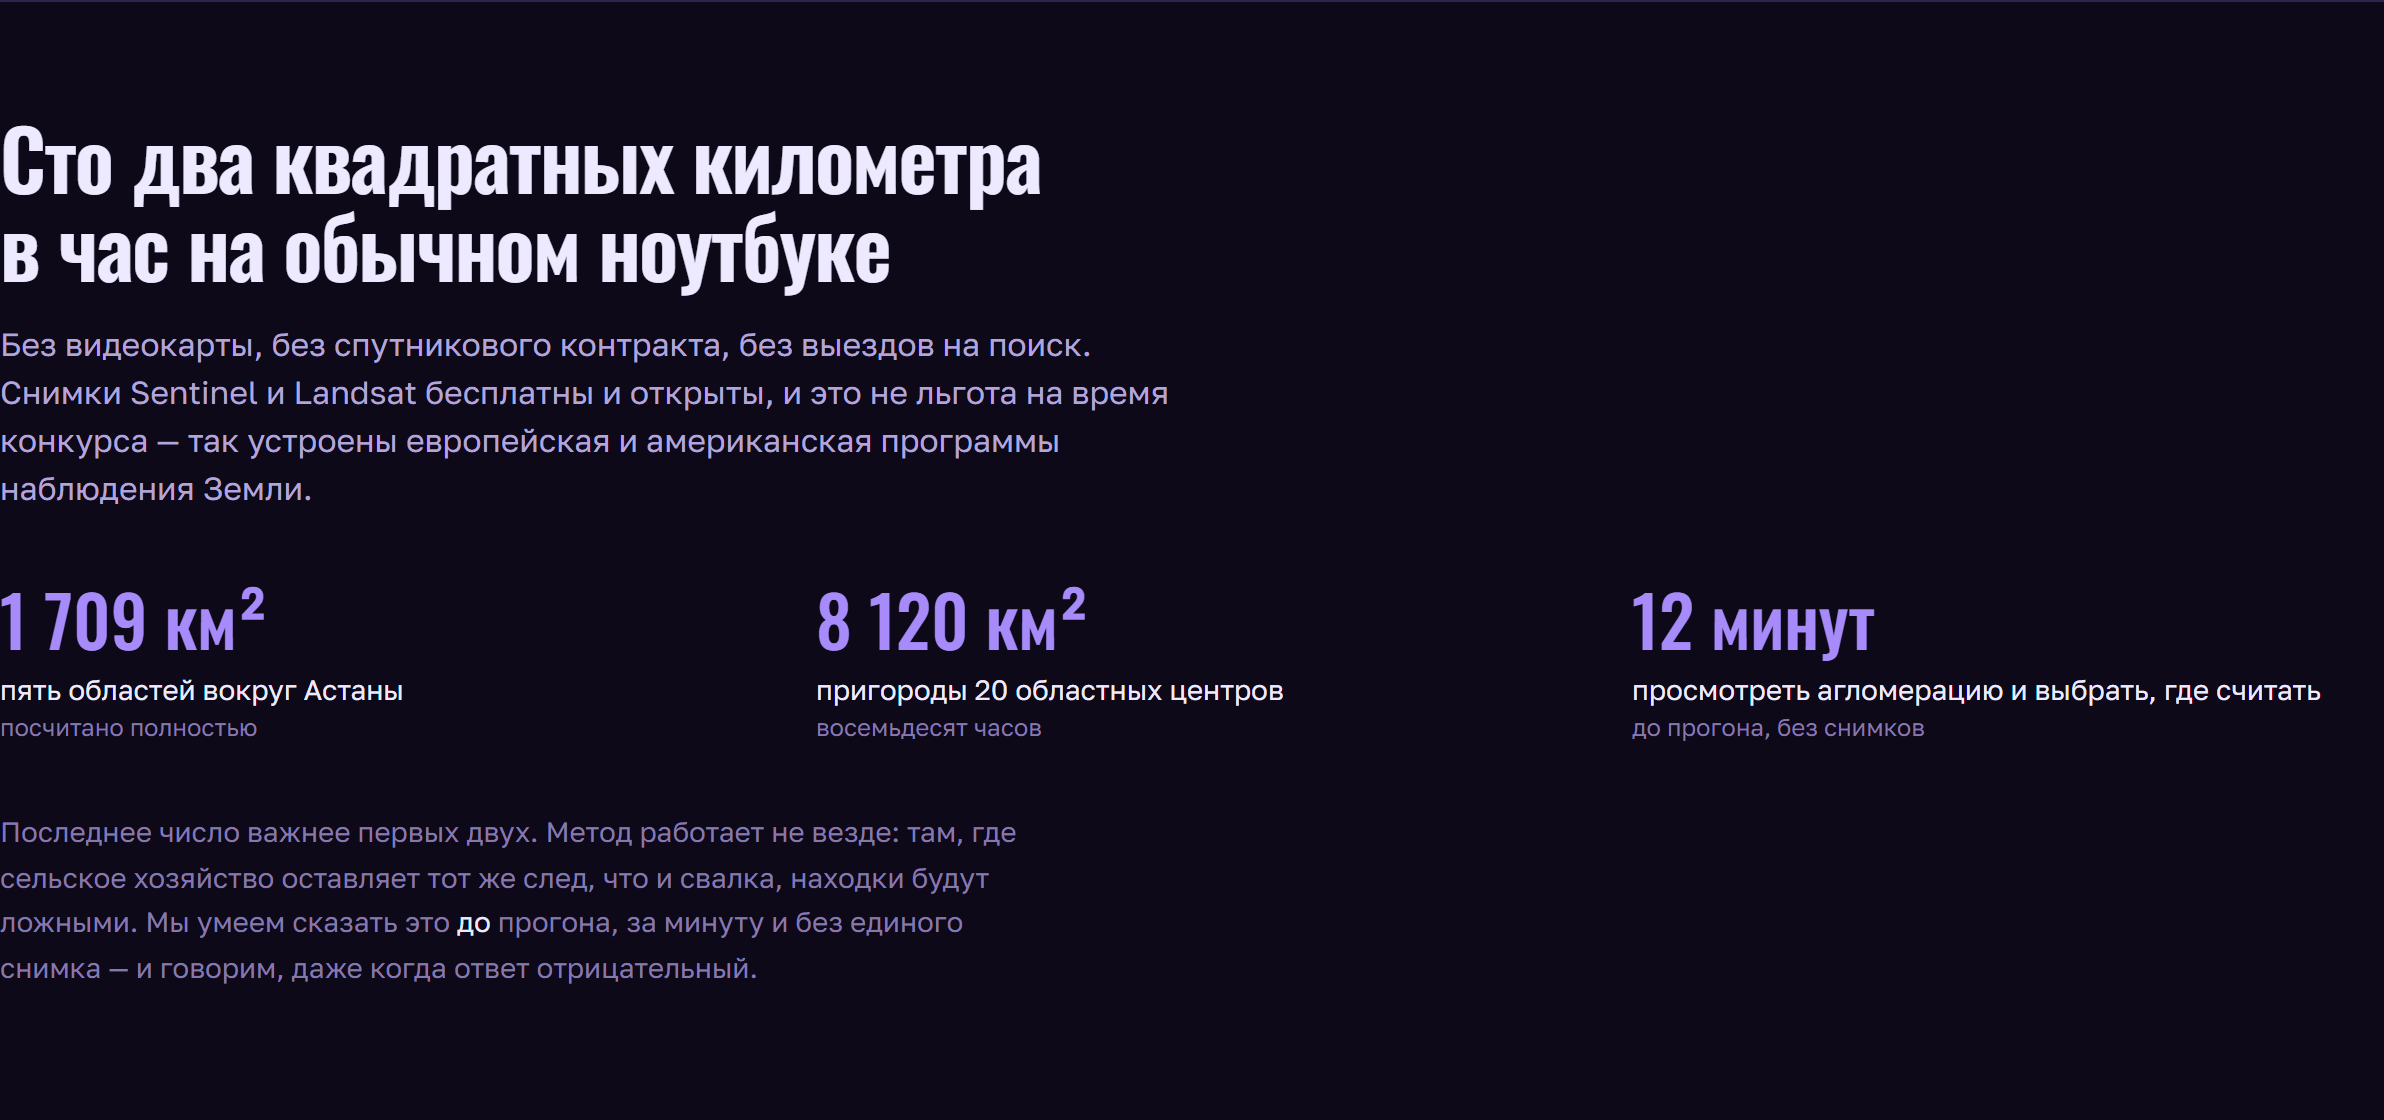
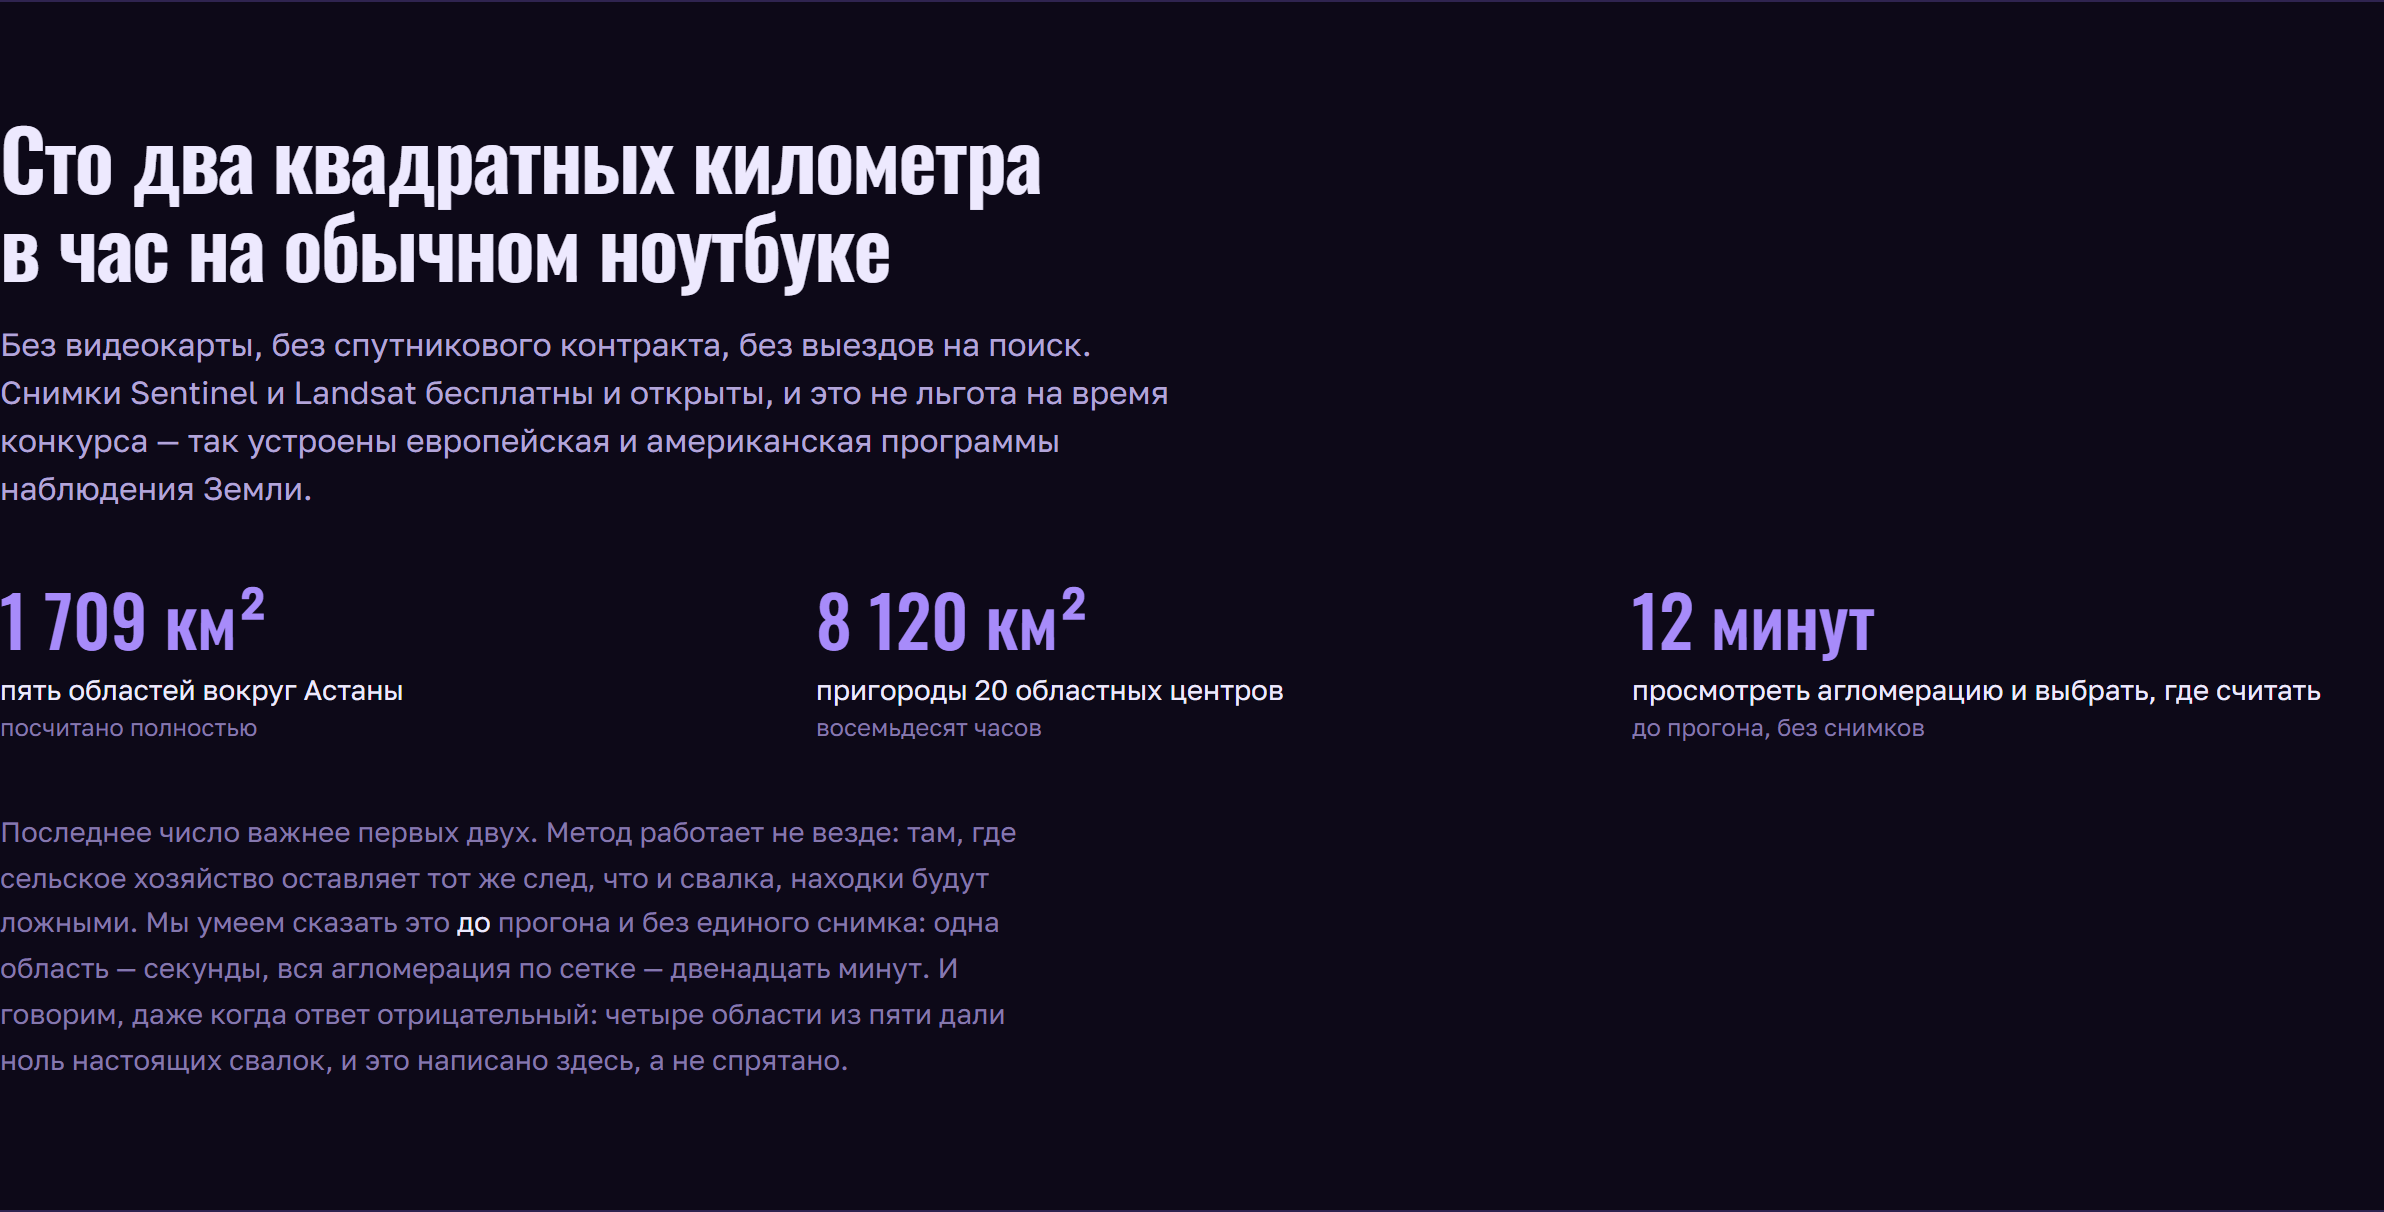
Заголовок обещал «Шесть лет», а число под ним показывало 4,4
- Ограничения на лендинге отстали от измерений
- «в 64 раз точнее» — склонение на слайде с метрикой

Changed region(s): [[0.0, 0.0938, 0.5277, 0.9062], [0.6829, 0.4688, 0.9622, 0.6562]]

diff --git a/web-next/src/App.tsx b/web-next/src/App.tsx
@@ -113,11 +113,11 @@ const LIMITS: [string, string][] = [
   ],
   [
     'В сельской местности метод не работает',
-    'Детектор ищет место, где растительность исчезла навсегда. В промзоне это редкое событие и потому значимое; в поле — рядовое: залежь, смена оборота, заброшенный огород. Проверено трижды: Алматы 8 находок, восточный пояс Астаны 33, юго-восточный 63 — настоящих свалок ноль. Проверять область научились до прогона: там, где карта подробна, отсев работает, где пуста — нет. Разрыв между работающей областью и провальной оказался четырнадцатикратным.',
+    'Детектор ищет место, где растительность исчезла навсегда. В промзоне это редкое событие и потому значимое; в поле — рядовое: залежь, смена оборота, заброшенный огород. Проверено на пяти областях: восточный пояс Астаны 33 находки, юго-восточный 63, западная промзона 42, юг 21 — настоящих свалок ноль, все просмотрены глазами. Проверять область научились до прогона по полноте карты: где карта пуста, отсеивать нечем и метод не работает наверняка. Обратное неверно: подробная карта не обещает свалок, она обещает работающий отсев.',
   ],
   [
-    'Перенос классификатора на Казахстан не доказан',
-    'Модель обучена на открытых датасетах — ROC-AUC 0,858 на них. На наших объектах 0,643 при интервале 0,333–0,923: нижняя граница ниже случайного. Виновата не модель, а число подтверждённых объектов.',
+    'Перенос классификатора измерен, но выборка мала',
+    'Модель обучена на открытых датасетах — ROC-AUC 0,858 на них. На наших объектах 0,680 при интервале 0,517–0,841. Пока объектов было семнадцать, нижняя граница лежала на 0,333 — ниже случайного, и перенос назывался недоказанным; на 51 она перешла черту. Называем нижнюю границу, а не середину.',
   ],
   [
     'Это оценка, а не юридическое доказательство',
@@ -551,9 +551,11 @@ export default function App() {
           <p className="mt-8 max-w-[60ch] text-sm leading-relaxed text-muted-2">
             Последнее число важнее первых двух. Метод работает не везде: там,
             где сельское хозяйство оставляет тот же след, что и свалка,
-            находки будут ложными. Мы умеем сказать это <strong className="font-normal text-line">до</strong> прогона,
-            за минуту и без единого снимка — и говорим, даже когда ответ
-            отрицательный.
+            находки будут ложными. Мы умеем сказать это <strong className="font-normal text-line">до</strong> прогона
+            и без единого снимка: одна область — секунды, вся агломерация по
+            сетке — двенадцать минут. И говорим, даже когда ответ
+            отрицательный: четыре области из пяти дали ноль настоящих свалок,
+            и это написано здесь, а не спрятано.
           </p>
         </section>
 

diff --git a/web-next/src/components/HowLong.tsx b/web-next/src/components/HowLong.tsx
@@ -57,10 +57,18 @@ export function HowLong({ features }: { features: Feature[] }) {
     ['тонн отходов в списке', Math.round(mass).toLocaleString('ru-RU')],
   ];
 
+  /* Заголовок берёт то же число, что и плитка под ним.
+     Раньше в нём стояло «Шесть лет» словами, а плитка считалась из данных.
+     После пересчёта они разошлись: заголовок обещал шесть, число под ним
+     показывало 4,4. Читатель видит оба одновременно, и это разрушает
+     доверие ко всей странице быстрее, чем любая неточность по отдельности. */
+  const typical = Math.round(median(ages));
+  const said = typical === 1 ? 'Год' : typical < 5 ? `${typical} года` : `${typical} лет`;
+
   return (
     <section className="mt-14 border-t border-grid pt-12">
       <h2 className="max-w-[24ch] text-[clamp(1.6rem,3.4vw,2.4rem)] text-line">
-        Шесть лет — столько объект лежит, пока его никто не считает
+        {said} — столько объект лежит, пока его никто не считает
       </h2>
 
       <dl className="mt-8 grid gap-8 sm:grid-cols-3">
@@ -84,7 +92,7 @@ export function HowLong({ features }: { features: Feature[] }) {
       <p className="mt-4 max-w-[62ch] leading-relaxed text-muted">
         Спутник заметил эти объекты через годы после появления — раньше было
         физически нечего увидеть. Человек, проходящий мимо, замечает в первую
-        неделю. Одна точка из телефона сокращает шесть лет до семи дней.
+        неделю. Одна точка из телефона сокращает {said.toLowerCase()} до семи дней.
       </p>
     </section>
   );

diff --git a/web-next/src/Timelapse.tsx b/web-next/src/Timelapse.tsx
@@ -33,6 +33,18 @@ const PLAY_SECONDS = 18;
 /** Хвост шкалы за последним наблюдением, на котором проступает прогноз. */
 const FORECAST_SPAN = 1.2;
 
+/* Склонение числительных. «в 64 раз точнее» — мелочь, которую замечают
+   все и сразу, а на слайде с метрикой она особенно неуместна: рядом
+   стоит интервал по бутстрэпу. */
+const plural = (count: number, one: string, few: string, many: string) => {
+  const mod100 = Math.abs(Math.round(count)) % 100;
+  if (mod100 >= 11 && mod100 <= 14) return many;
+  const mod10 = mod100 % 10;
+  if (mod10 === 1) return one;
+  if (mod10 >= 2 && mod10 <= 4) return few;
+  return many;
+};
+
 export default function Timelapse() {
   const host = useRef<HTMLDivElement>(null);
   const map = useRef<L.Map | null>(null);
@@ -316,7 +328,7 @@ export default function Timelapse() {
             <p className="text-sm text-line">Тепло без объектов — где свалок ещё нет</p>
             <p className="mt-1 text-xs leading-snug text-muted">
               Модель обучена на объектах до сентября 2023 и проверена на
-              возникших после.{lift ? ` Попадает не хуже чем в ${lift} раз точнее случайного выбора.` : ''}
+              возникших после.{lift ? ` Попадает не хуже чем в ${lift} ${plural(lift, 'раз', 'раза', 'раз')} точнее случайного выбора.` : ''}
             </p>
           </div>
         )}

diff --git a/web-next/src/Forecast.tsx b/web-next/src/Forecast.tsx
@@ -267,10 +267,11 @@ export default function Forecast() {
 
               {metrics.positives_future !== undefined && metrics.positives_future < 15 && (
                 <p className="mt-3 text-sm leading-relaxed text-muted-2">
-                  Проверять было на чем немного: свалок, возникших после отсечки,{' '}
-                  <span className="tabular text-line">{metrics.positives_future}</span>. Поэтому
-                  здесь стоит интервал по бутстрэпу и его нижняя граница, а не одно число:
-                  на такой выборке середина сместилась бы от одного объекта.
+                  Свалок, возникших после отсечки, всего{' '}
+                  <span className="tabular text-line">{metrics.positives_future}</span> — и это
+                  всё, на чём модель проверялась. Поэтому здесь стоит интервал по бутстрэпу и
+                  называется его нижняя граница, а не одно число: на такой выборке середина
+                  сместилась бы от одного объекта.
                 </p>
               )}
 
